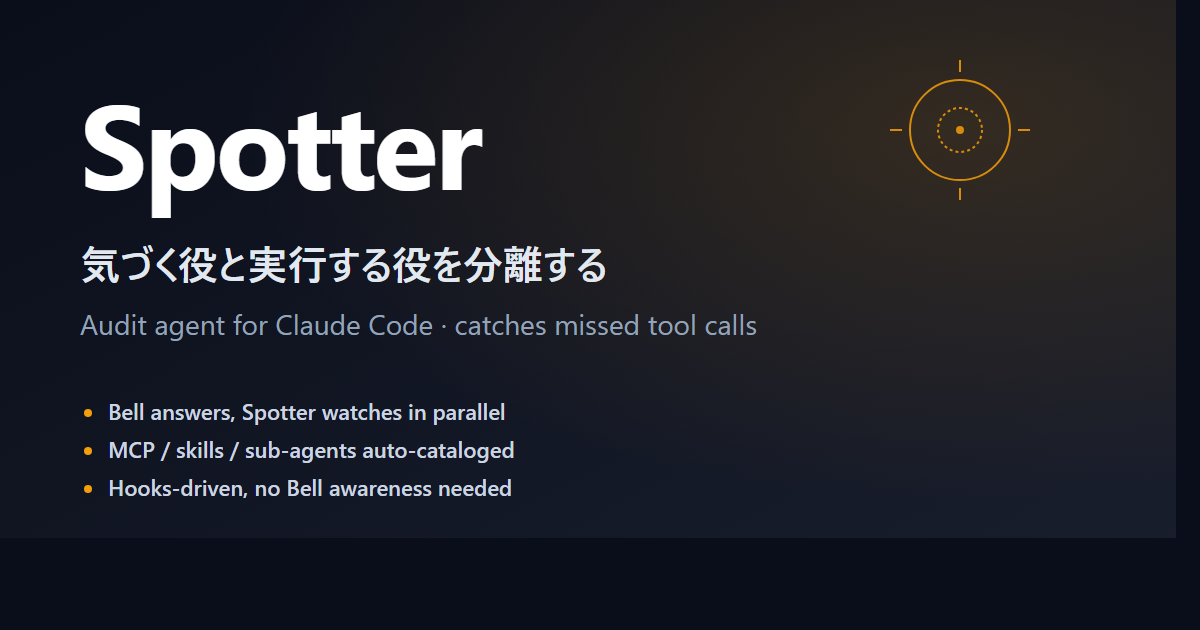
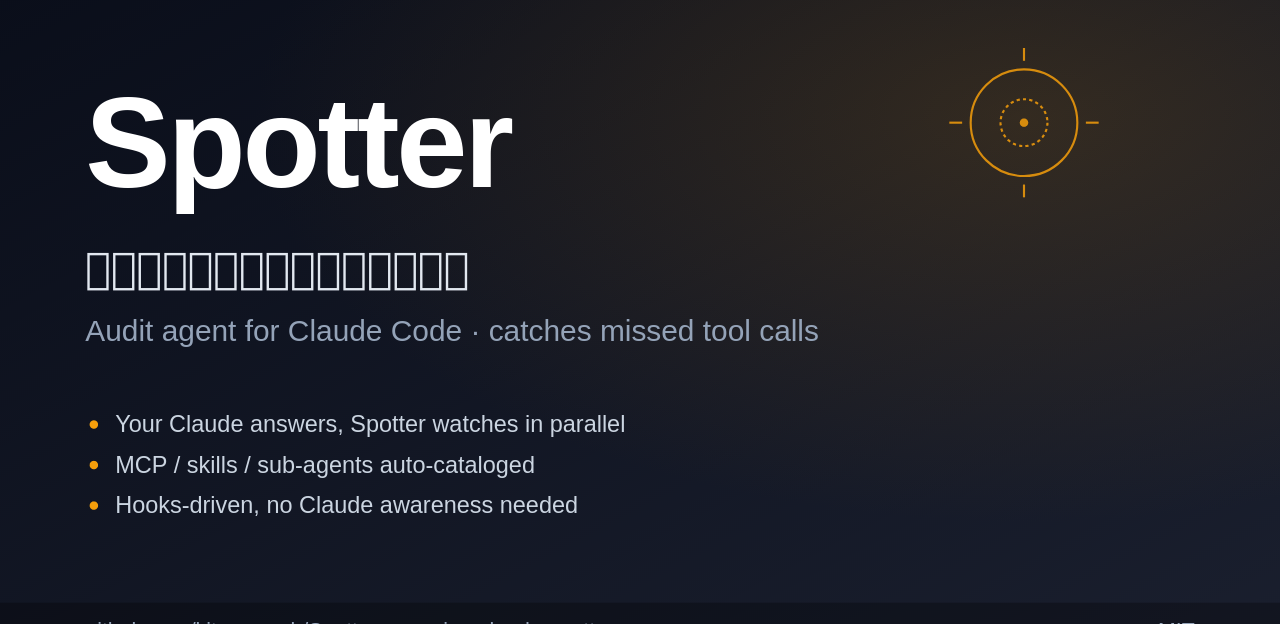
docs(readme): remove 'Bell' codename from all public-facing assets
'Bell' is a private internal name and must not surface to README readers
or in shareable assets. Replace it with 'Claude' / 'the primary Claude' /
'your primary Claude' as context demands.

- README.md, README.ja.md: 13 occurrences each rewritten. Drop the
  `(Bell)` parentheticals in the pitch line and the Throughline comparison
  section since the names there were the only 'Bell' leak.
- .github/og.svg: bullet text 'Bell answers...' → 'Your Claude answers...'
  and 'no Bell awareness needed' → 'no Claude awareness needed'.
- .github/og.png: regenerated from updated og.svg via svgexport at
  1280x640 so the rendered OG banner matches the SVG source.
- .github/concept.svg: internal HTML comment 'Bell side' → 'Primary
  Claude side' (not visible but cleaned for consistency).

Internal documents (CLAUDE.md, docs/, src/) are left unchanged — those are
project-local and the 'Bell' codename is meaningful there.

diff --git a/README.md b/README.md
@@ -11,25 +11,25 @@
 
 **English · [日本語](README.ja.md)**
 
-> **Separate the spotter from the doer.** Spotter runs alongside Claude Code and quietly flags the moments when Bell (your primary Claude) **forgets to use a tool it has access to**.
+> **Separate the spotter from the doer.** Spotter runs alongside Claude Code and quietly flags the moments when your primary Claude **forgets to use a tool it has access to**.
 
 Claude has a structural blind spot: **it can't reach for a tool it doesn't realize it needs**. It may skip a project memory MCP when a decision should be recorded, answer from stale memory instead of a docs-lookup MCP, or reason about UI state without a browser-automation MCP. The model can't always tell when it doesn't know — so the tool stays unused.
 
-Spotter pins a second agent (Claude Haiku 4.5) next to Bell. The second agent has the full tool catalog memorized and audits both the user's prompt and Bell's reply in parallel. When it spots a missed tool, it injects a transparent recommendation into Bell's context and, if needed, asks Bell to amend its answer. **Bell is never asked to self-audit** — that would defeat the entire premise. Detection happens through hooks, independent of Bell's intent.
+Spotter pins a second agent (Claude Haiku 4.5) next to Claude. The second agent has the full tool catalog memorized and audits both the user's prompt and Claude's reply in parallel. When it spots a missed tool, it injects a transparent recommendation into Claude's context and, if needed, asks Claude to amend its answer. **Claude is never asked to self-audit** — that would defeat the entire premise. Detection happens through hooks, independent of Claude's intent.
 
 <p align="center">
-  <img src=".github/concept.svg" alt="Bell answers · Spotter watches" width="80%">
+  <img src=".github/concept.svg" alt="Claude answers · Spotter watches" width="80%">
 </p>
 
 <p align="center">
-  <sub><b>Bell</b> answers (the doer) &nbsp;·&nbsp; <b>Spotter</b> watches (the auditor, silent)</sub>
+  <sub><b>Claude</b> answers (the doer) &nbsp;·&nbsp; <b>Spotter</b> watches (the auditor, silent)</sub>
 </p>
 
 ## See it in 30 seconds
 
 Examples of what Spotter catches:
 
-| Situation | What Bell would do | What Spotter flags |
+| Situation | What Claude would do | What Spotter flags |
 |---|---|---|
 | "Please remember this OAuth gotcha" | Acknowledge and move on | Missed call to a memory / caveat MCP |
 | "How does this package API work in the latest version?" | Answer from training-time knowledge | Missed call to a docs-lookup MCP |
@@ -41,7 +41,7 @@ Examples of what Spotter catches:
 Spotter audits in two stages:
 
 - **`stage=user_input`** — given the user's prompt, list any local catalog tools whose description clearly applies. A *prompt-fulfillment* check
-- **`stage=turn_end`** — given Bell's final reply, look for places where a catalog tool (verification / recording / lookup) could plug in. A *missed-opportunity* audit. Zero findings is fine; tools already used in this turn are not re-flagged
+- **`stage=turn_end`** — given Claude's final reply, look for places where a catalog tool (verification / recording / lookup) could plug in. A *missed-opportunity* audit. Zero findings is fine; tools already used in this turn are not re-flagged
 
 ## Install
 
@@ -94,8 +94,8 @@ the next same-session `UserPromptSubmit`.
 ```mermaid
 flowchart TD
     U([User prompt]) --> UPH[UserPromptSubmit hook<br/>Spotter audits prompt against catalog]
-    UPH --> BT[Bell thinking<br/>receives Spotter's recommendations<br/>as additionalContext]
-    BT --> BA([Bell's first answer])
+    UPH --> BT[Claude thinking<br/>receives Spotter's recommendations<br/>as additionalContext]
+    BT --> BA([Claude's first answer])
     BA --> SH[Stop hook<br/>Spotter re-audits answer + tools used]
     SH --> DEC{Missed<br/>tool?}
     DEC -->|No| DONE([Done])
@@ -143,7 +143,7 @@ The audited catalog is host-local: Claude uses `<project>/.spotter/tool-db.json`
 | Target | Context bloat | Missed tool calls |
 | Mechanism | Hook-driven memory eviction | Hook-driven sub-agent in parallel |
 
-Both share the principle of **"don't rely on the primary agent (Bell) to do it itself."** They compose well — you can run them together.
+Both share the principle of **"don't rely on the primary agent to do it itself."** They compose well — you can run them together.
 
 ## Common commands
 
@@ -205,18 +205,18 @@ those values for smoke tests or controlled experiments.
 
 ## Known limitations
 
-- The `Stop` hook fires **after** Bell's first answer has already been streamed to the user. When Spotter sends Bell back, the user sees both the original answer and the corrected one. Detection accuracy in `UserPromptSubmit` (the *pre-response* stage) is therefore Spotter's primary axis of quality
+- The `Stop` hook fires **after** Claude's first answer has already been streamed to the user. When Spotter sends Claude back, the user sees both the original answer and the corrected one. Detection accuracy in `UserPromptSubmit` (the *pre-response* stage) is therefore Spotter's primary axis of quality
 - `Stop` hook is **deferred** for both Claude and Codex hosts as of v1.4.8. When Spotter finds a missed tool at `Stop`, it appends the finding to `<projectRoot>/.spotter/pending/<sessionId>.json` and surfaces it on the next same-session `UserPromptSubmit` as `additionalContext`. The original assistant message stays as the turn's final transcript entry — no `decision:"block"` re-generation cycle. The same pending file is shared by Claude and Codex (host-neutral path)
-- **Since v0.5.0, JSON schema violations from Haiku are treated as expected-anomalies** (silent pass + session renew, logged as `role_collapse_reset`) — this is the role-collapse recovery path. **Haiku timeouts still throw**, which surfaces as `UserPromptSubmit` blocking the user's prompt from reaching Bell. Timeouts have been raised twice (30s in v0.5.0, 45s in v0.13.1); making timeouts fail-open is deferred until §0 is revisited
+- **Since v0.5.0, JSON schema violations from Haiku are treated as expected-anomalies** (silent pass + session renew, logged as `role_collapse_reset`) — this is the role-collapse recovery path. **Haiku timeouts still throw**, which surfaces as `UserPromptSubmit` blocking the user's prompt from reaching Claude. Timeouts have been raised twice (30s in v0.5.0, 45s in v0.13.1); making timeouts fail-open is deferred until §0 is revisited
 
 <details>
 <summary><strong>📋 Recent highlights</strong></summary>
 
-- **Plugin-scoped MCP servers** — names like `plugin:everything-claude-code:context7` (with internal colons) are now parsed correctly and their tools enter the catalog. Earlier versions silently collapsed all plugin MCP servers into a single literal `"plugin"`, dropping their tools from Bell's audit
+- **Plugin-scoped MCP servers** — names like `plugin:everything-claude-code:context7` (with internal colons) are now parsed correctly and their tools enter the catalog. Earlier versions silently collapsed all plugin MCP servers into a single literal `"plugin"`, dropping their tools from Claude's audit
 - **Per-project / per-host audit isolation** — the daemon audits against the local DB only; global DBs are host-specific description caches. Tools discovered in *other* projects or another host can never bleed into this project's audit set
 - **Zero-touch catalog** — `spotter install` seeds the Claude DB automatically; Claude and Codex SessionStart hooks keep their host-local DBs fresh in the background. You never have to maintain the tool list by hand
 - **Codex native hooks** — Codex host uses Codex CLI as the primary auditor backend, keeps a separate `.spotter/tool-db.codex.json`, and surfaces backend failures explicitly instead of falling back to Haiku
-- **Audit scope** — only user-added surface (MCP servers / skills / sub-agents). Claude Code's built-in tools are intentionally out of scope; Bell already uses those reliably
+- **Audit scope** — only user-added surface (MCP servers / skills / sub-agents). Claude Code's built-in tools are intentionally out of scope; Claude already uses those reliably
 - **Implementation invariants** — no fallbacks, no silent failures, no provisional code (see [§0 in CLAUDE.md](CLAUDE.md))
 
 Full release history: [CHANGELOG](CHANGELOG.md).
